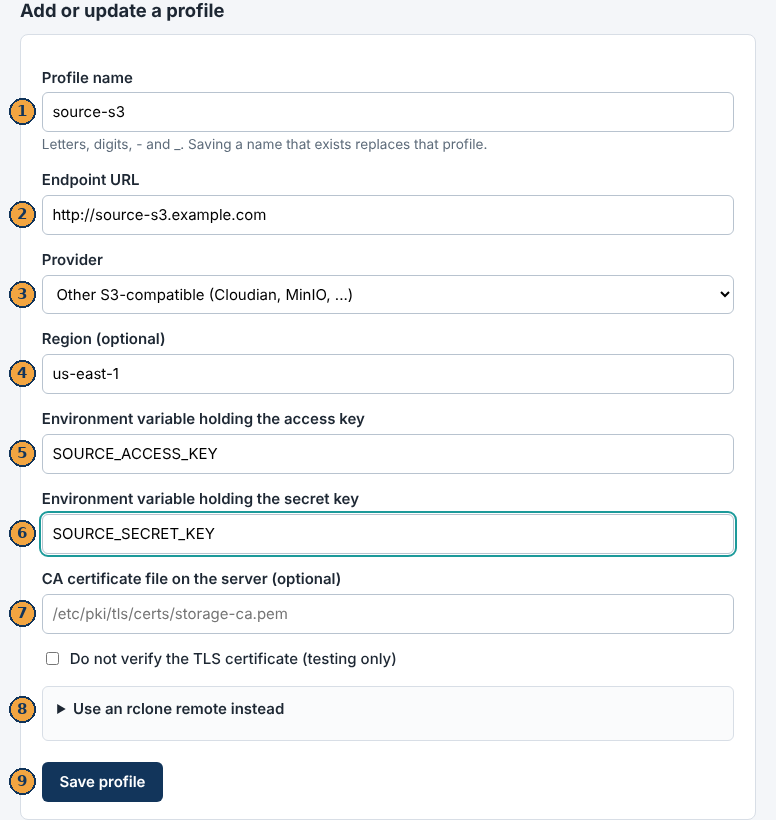
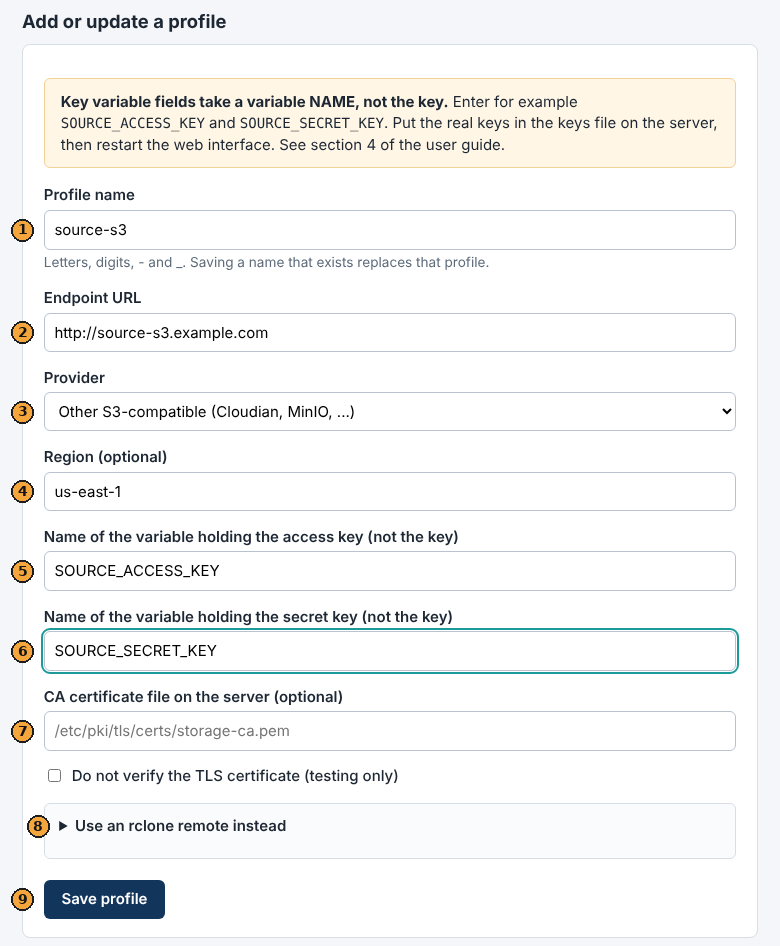
S3BucketFerry v0.3.9

diff --git a/docs/USER_GUIDE.md b/docs/USER_GUIDE.md
@@ -1,6 +1,6 @@
 # S3BucketFerry User Guide
 
-Version 0.3.8
+Version 0.3.9
 
 S3BucketFerry ("S3 Bucket Ferry") copies buckets from one S3-compatible storage
 system to another, checks every object, and issues a migration certificate at
@@ -37,7 +37,7 @@ The screenshots and sample output in this guide come from real migrations
 between two test S3 servers, `source-s3.example.com` and `target-s3.example.com`,
 mostly made with version 0.3.2. The screens are the same in later versions,
 except for the **User guide** link added in 0.3.3. Since 0.3.4 the web interface
-uses HTTPS (section 6), and since 0.3.5 `service setup` sets up its service. Your names, numbers and dates will differ.
+uses HTTPS (section 6), and since 0.3.5 `service setup` sets up its service. The profiles page gained **Edit** and a reminder about key variable names in 0.3.9. Your names, numbers and dates will differ.
 
 This guide is also built into the web interface: **Support > User guide**.
 
@@ -114,11 +114,11 @@ browser without internet access, and `USER_GUIDE.md`. Packages are on the
 
 | System | Package |
 |---|---|
-| Linux, Intel/AMD | `s3bucketferry-0.3.8-linux-amd64.tar.gz` |
-| Linux, ARM | `s3bucketferry-0.3.8-linux-arm64.tar.gz` |
-| Windows | `s3bucketferry-0.3.8-windows-amd64.zip` |
-| macOS, Intel | `s3bucketferry-0.3.8-macos-amd64.tar.gz` |
-| macOS, Apple silicon | `s3bucketferry-0.3.8-macos-arm64.tar.gz` |
+| Linux, Intel/AMD | `s3bucketferry-0.3.9-linux-amd64.tar.gz` |
+| Linux, ARM | `s3bucketferry-0.3.9-linux-arm64.tar.gz` |
+| Windows | `s3bucketferry-0.3.9-windows-amd64.zip` |
+| macOS, Intel | `s3bucketferry-0.3.9-macos-amd64.tar.gz` |
+| macOS, Apple silicon | `s3bucketferry-0.3.9-macos-arm64.tar.gz` |
 
 Every release also has `SHA256SUMS.txt`, which lets you confirm the download
 is complete and unaltered.
@@ -132,7 +132,7 @@ below and section 13.9. You never need Git.
 ### Linux
 
 ```bash
-VER=0.3.8
+VER=0.3.9
 BASE=https://github.com/debkhadanga2023-lgtm/S3BucketFerry/releases/download/v$VER
 cd /tmp
 curl -fLO $BASE/s3bucketferry-$VER-linux-amd64.tar.gz
@@ -154,7 +154,7 @@ which certificate to use.
 
 ### Windows
 
-1. Download `s3bucketferry-0.3.8-windows-amd64.zip`.
+1. Download `s3bucketferry-0.3.9-windows-amd64.zip`.
 2. Right-click the file, select **Extract All**, and extract to a folder such as
    `C:\S3BucketFerry`.
 3. Open **PowerShell** in that folder and run `.\s3bucketferry.exe version`.
@@ -176,8 +176,8 @@ installation.
 and download two files from the release you want:
 
 - the package for the S3BucketFerry machine, for example
-  `s3bucketferry-0.3.8-linux-amd64.tar.gz` or
-  `s3bucketferry-0.3.8-windows-amd64.zip`;
+  `s3bucketferry-0.3.9-linux-amd64.tar.gz` or
+  `s3bucketferry-0.3.9-windows-amd64.zip`;
 - `SHA256SUMS.txt`.
 
 Copy both to the S3BucketFerry machine, for example on a USB drive, over a file
@@ -188,9 +188,9 @@ the same folder.
 
 ```bash
 cd /tmp                                            # the folder you copied the two files to
-sha256sum -c --ignore-missing SHA256SUMS.txt       # must print: s3bucketferry-0.3.8-linux-amd64.tar.gz: OK
+sha256sum -c --ignore-missing SHA256SUMS.txt       # must print: s3bucketferry-0.3.9-linux-amd64.tar.gz: OK
 sudo mkdir -p /opt/s3bucketferry
-sudo tar -xzf s3bucketferry-0.3.8-linux-amd64.tar.gz -C /opt/s3bucketferry --strip-components=1
+sudo tar -xzf s3bucketferry-0.3.9-linux-amd64.tar.gz -C /opt/s3bucketferry --strip-components=1
 sudo ln -sf /opt/s3bucketferry/s3bucketferry /usr/local/bin/s3bucketferry
 s3bucketferry version
 s3bucketferry doctor
@@ -206,7 +206,7 @@ In PowerShell, in the folder you copied the two files to:
 
 ```powershell
 cd D:\                                                     # the folder with the two files
-(Get-FileHash .\s3bucketferry-0.3.8-windows-amd64.zip -Algorithm SHA256).Hash.ToLower()
+(Get-FileHash .\s3bucketferry-0.3.9-windows-amd64.zip -Algorithm SHA256).Hash.ToLower()
 Select-String -Path .\SHA256SUMS.txt -Pattern "windows-amd64.zip"
 ```
 
@@ -214,9 +214,9 @@ The two long values must be identical. (`certutil -hashfile <file> SHA256`
 shows the same value.) Then unpack the program into `C:\S3BucketFerry`:
 
 ```powershell
-Expand-Archive .\s3bucketferry-0.3.8-windows-amd64.zip -DestinationPath $env:TEMP\s3bf
+Expand-Archive .\s3bucketferry-0.3.9-windows-amd64.zip -DestinationPath $env:TEMP\s3bf
 New-Item -ItemType Directory -Force C:\S3BucketFerry | Out-Null
-Copy-Item $env:TEMP\s3bf\s3bucketferry-0.3.8-windows-amd64\* C:\S3BucketFerry -Recurse -Force
+Copy-Item $env:TEMP\s3bf\s3bucketferry-0.3.9-windows-amd64\* C:\S3BucketFerry -Recurse -Force
 cd C:\S3BucketFerry
 .\s3bucketferry.exe version
 .\s3bucketferry.exe doctor
@@ -314,6 +314,14 @@ recognise. This guide uses `source-s3` and `target-s3`.
 To copy between two buckets on the **same** storage system, one profile is
 enough: use it as both source and target.
 
+> **Important: the key fields take a variable NAME, never the key itself.**
+> Type `SOURCE_ACCESS_KEY`, not `AKIA...` or the real secret. The real keys go
+> only in the keys file (section 4). If a key is typed into a profile, it is
+> saved in plain text in `profiles.json`. Since 0.3.9, S3BucketFerry refuses
+> a value that looks like a key. If an older profile already holds one, edit
+> it (see "Edit or fix a profile" below) and then change those keys on the
+> storage system.
+
 ### What to enter
 
 | Field (web) | Option (command line) | What to enter |
@@ -322,21 +330,23 @@ enough: use it as both source and target.
 | Endpoint URL | `--endpoint` | The S3 address, for example `https://s3.storage.example.com`. |
 | Provider | `--provider` | The type of storage. **Other S3-compatible** (`Other`) works for most systems; it's the default. Choose **Amazon S3** (`AWS`), **IBM COS / Cleversafe** (`IBMCOS`), **Ceph** or **MinIO** when that is what you have. The command line accepts any provider name that rclone supports; see [rclone's S3 page](https://rclone.org/s3/). |
 | Region | `--region` | The region your administrators gave you. Leave it empty if none. |
-| Access key variable | `--access-key-env` | The **name** of the variable, for example `SOURCE_ACCESS_KEY`. Not the key itself. |
-| Secret key variable | `--secret-key-env` | The **name** of the variable, for example `SOURCE_SECRET_KEY`. |
+| Access key variable | `--access-key-env` | The **name** of the variable, for example `SOURCE_ACCESS_KEY`. **Not the key itself.** |
+| Secret key variable | `--secret-key-env` | The **name** of the variable, for example `SOURCE_SECRET_KEY`. **Not the secret key itself.** Don't start the name with `RCLONE_`. |
 | CA certificate file | `--ca-cert` | Only for HTTPS endpoints whose certificate comes from a private certificate authority: the path of its PEM file on this machine. |
 | Do not verify the TLS certificate | `--insecure-tls` | For tests only. It turns off a security check. |
 | rclone remote | `--rclone-remote` | Advanced: use a remote that already exists in your rclone configuration instead of the fields above. |
 
-A common mistake is typing the key itself into the key variable field. The
-error then shows your key as a variable name ("environment variables
-AKIA... must both be set"). Remove the profile and add it again with the
-variable names.
+The most common mistake is typing the key itself into a key variable field.
+S3BucketFerry now refuses such a value with "a key variable field holds what
+looks like a real key". To fix a profile that already holds a key, see "Edit
+or fix a profile" below.
 
 ### Add the profiles in the web interface
 
 Open **Connection profiles** (full access needed), fill in **Add or update a
-profile**, and select **Save profile**. Then do the same for the target.
+profile**, and select **Save profile**. Then do the same for the target. The
+yellow box at the top of the form is a reminder that the key fields take
+variable names.
 
 ![The Add or update a profile form, with numbered fields](images/04-profile-add.png)
 
@@ -344,8 +354,8 @@ profile**, and select **Save profile**. Then do the same for the target.
 2. Endpoint URL.
 3. Provider: keep **Other S3-compatible** unless your storage is listed.
 4. Region, if your storage needs one.
-5. Name of the variable holding the access key.
-6. Name of the variable holding the secret key.
+5. Name of the variable holding the access key (not the key).
+6. Name of the variable holding the secret key (not the key).
 7. CA certificate file, only for a private certificate authority.
 8. An existing rclone remote, as an alternative to fields 2 to 7.
 9. **Save profile**.
@@ -358,6 +368,36 @@ Select **Test** next to a profile to check it. The result opens as a task under
 **Activity**:
 
 ![A successful profile test](images/05-profile-test.png)
+
+After saving, S3BucketFerry tells you if a variable you named isn't set for
+the web interface yet. Add it to the keys file and restart the web interface
+before you select **Test**.
+
+### Edit or fix a profile
+
+Users with full access can change a profile in the web interface. Select
+**Edit** next to the profile. The form opens filled in with the saved
+settings. Change what you need and select **Save profile**, or **Cancel**.
+
+![Editing a profile](images/37-profile-edit.png)
+
+- The profile name can't be changed here. To rename, add the profile under the
+  new name and remove the old one.
+- If a key variable field held what looks like a real key, the profiles list
+  shows **(hidden)** with **Edit this profile: a field holds a key, not a
+  variable name**. The key is never shown on screen: the edit form leaves that
+  field empty. Type the variable name (for example `SOURCE_ACCESS_KEY`), put
+  the real key in the keys file (section 4), save, and restart the web
+  interface.
+
+![A profile that holds a key: masked in the list, with a warning](images/38-profile-key-warning.png)
+
+A key that was saved in a profile was stored in plain text in `profiles.json`
+and may have been seen on screen. After fixing the profile, change (rotate)
+that key pair on the storage system and put the new values in the keys file.
+
+On the command line, change a profile by running `profile add` again with the
+same `--name` and all the settings: the new settings replace the old ones.
 
 ### Add the profiles on the command line
 
@@ -1298,7 +1338,7 @@ works.
 |---|---|
 | read-only | View the dashboard, activity, jobs, reports, certificates, connection profiles and help |
 | read-write | Also start and stop tasks, and test profiles |
-| full | Also manage profiles, notifications and users |
+| full | Also add, edit and remove profiles, and manage notifications and users |
 
 - **Add a user:** a name, an access level, and an initial password (leave it
   empty to generate one; it is shown once). The user must choose a new password
@@ -1558,7 +1598,7 @@ upgrade.
 
 ```bash
 s3bucketferry version                                           # what you have now
-sudo s3bucketferry upgrade --package /tmp/s3bucketferry-0.3.8-linux-amd64.tar.gz
+sudo s3bucketferry upgrade --package /tmp/s3bucketferry-0.3.9-linux-amd64.tar.gz
 ```
 
 It works exactly like the online upgrade (13.3): it checks the package against
@@ -1597,9 +1637,9 @@ the copy is complete and unaltered.
 
 ```bash
 cd /tmp
-tar -xzf s3bucketferry-0.3.8-linux-amd64.tar.gz
-sudo bash s3bucketferry-0.3.8-linux-amd64/upgrade.sh --dir /opt/s3bucketferry \
-     --package /tmp/s3bucketferry-0.3.8-linux-amd64.tar.gz
+tar -xzf s3bucketferry-0.3.9-linux-amd64.tar.gz
+sudo bash s3bucketferry-0.3.9-linux-amd64/upgrade.sh --dir /opt/s3bucketferry \
+     --package /tmp/s3bucketferry-0.3.9-linux-amd64.tar.gz
 ```
 
 From then on use `sudo s3bucketferry upgrade --package ...`.
@@ -1616,7 +1656,7 @@ instead of downloaded. In PowerShell:
 
 ```powershell
 cd D:\                                                     # the folder with the copied files
-(Get-FileHash .\s3bucketferry-0.3.8-windows-amd64.zip -Algorithm SHA256).Hash.ToLower()
+(Get-FileHash .\s3bucketferry-0.3.9-windows-amd64.zip -Algorithm SHA256).Hash.ToLower()
 Select-String -Path .\SHA256SUMS.txt -Pattern "windows-amd64.zip"   # must show the same value
 ```
 
@@ -1625,8 +1665,8 @@ Stop the web interface (Ctrl+C in its window), then:
 ```powershell
 Remove-Item C:\S3BucketFerry.previous -Recurse -Force -ErrorAction SilentlyContinue
 Copy-Item C:\S3BucketFerry C:\S3BucketFerry.previous -Recurse           # your rollback copy
-Expand-Archive .\s3bucketferry-0.3.8-windows-amd64.zip -DestinationPath $env:TEMP\s3bf -Force
-Copy-Item $env:TEMP\s3bf\s3bucketferry-0.3.8-windows-amd64\* C:\S3BucketFerry -Recurse -Force
+Expand-Archive .\s3bucketferry-0.3.9-windows-amd64.zip -DestinationPath $env:TEMP\s3bf -Force
+Copy-Item $env:TEMP\s3bf\s3bucketferry-0.3.9-windows-amd64\* C:\S3BucketFerry -Recurse -Force
 C:\S3BucketFerry\s3bucketferry.exe version
 ```
 
@@ -1726,7 +1766,10 @@ versioning, lifecycle rules, bucket policies and Object Lock defaults.
 
 | Problem | Likely cause | What to do |
 |---|---|---|
-| `environment variables X and Y must both be set` | The key variables aren't loaded in this session, or the profile holds the keys instead of variable names | Load the keys (section 4). If X looks like a key, remove the profile and add it again with variable names. |
+| `environment variables X and Y must both be set` | The key variables aren't loaded in this session or for the web interface | Load the keys (section 4); after changing the keys file, restart the web interface. |
+| `a key variable field holds what looks like a real key` (when saving or testing a profile) | The access key or secret key itself was typed into a key variable field | Type the variable **name**, for example `SOURCE_ACCESS_KEY`, and put the key in the keys file (section 4). For an existing profile, select **Edit** on the profiles page (section 5, "Edit or fix a profile"). |
+| The profiles page shows **(hidden)** and **Edit this profile: a field holds a key** | The profile was saved with a key instead of a variable name, usually by a version before 0.3.9 | Select **Edit**, type the variable names, save, and restart the web interface. Then rotate that key pair on the storage system: it was stored in plain text. |
+| `don't start a key variable name with RCLONE_` | rclone reads `RCLONE_...` variables as its own settings | Rename the variable in the keys file, for example `SOURCE_ACCESS_KEY`, and use that name in the profile. |
 | `InvalidAccessKeyId` or `SignatureDoesNotMatch` | Wrong key, or a space or quote pasted with it | Check the values in your keys file; restart the web interface after changes. |
 | Error mentioning the region, or `AuthorizationHeaderMalformed` | The storage expects a specific region | Set the profile's region to the one your administrators gave you. |
 | `AccessDenied` | The key lacks a permission | See the permissions in section 2. For bucket creation, create the target bucket first and tick **Target bucket already exists**. |

diff --git a/CHANGELOG.md b/CHANGELOG.md
@@ -1,5 +1,30 @@
 # Changelog
 
+## 0.3.9 - 2026-11-20
+
+- **Edit a connection profile in the web interface.** Users with full access
+  have an **Edit** button next to each profile; the form opens filled in with
+  the saved settings, with **Cancel**. Previously a profile had to be added
+  again from scratch.
+- **Keys typed into a key variable field are refused.** The access key and
+  secret key fields take the *name* of an environment variable. A value that
+  looks like a real key (for example `AKIA...`, a long run of letters and
+  digits, or a secret containing `/ + =`) is refused, in the web interface and
+  on the command line, without showing the value back. Names starting with
+  `RCLONE_` are refused too.
+- **Profiles that already hold a key are masked.** The profiles page and
+  `profile list` show **(hidden)** instead of the value, with a warning to edit
+  the profile; the edit form never sends the key to the browser; profile test
+  errors don't print it.
+- After saving a profile, the web interface says when a named variable isn't
+  set for it yet.
+- The profile form's key fields are labelled "Name of the variable ... (not
+  the key)", with a reminder box at the top of the form.
+- User guide: highlighted warning in section 5, new "Edit or fix a profile"
+  subsection with screenshots, three new troubleshooting rows; updated
+  screenshots of the profiles page and form. Help page updated to match.
+- Tests: key detection, refusal without echo, masking of stored keys, editing.
+
 ## 0.3.8 - 2026-11-19
 
 - **Resume in the web interface.** The page of a stopped, failed or partly

diff --git a/README.md b/README.md
@@ -35,7 +35,7 @@ offline). Nothing else needs installing.
 ## Install on Linux
 
 ```bash
-VER=<version>        # for example 0.3.8
+VER=<version>        # for example 0.3.9
 BASE=https://github.com/debkhadanga2023-lgtm/S3BucketFerry/releases/download/v$VER
 cd /tmp
 curl -fLO $BASE/s3bucketferry-$VER-linux-amd64.tar.gz
